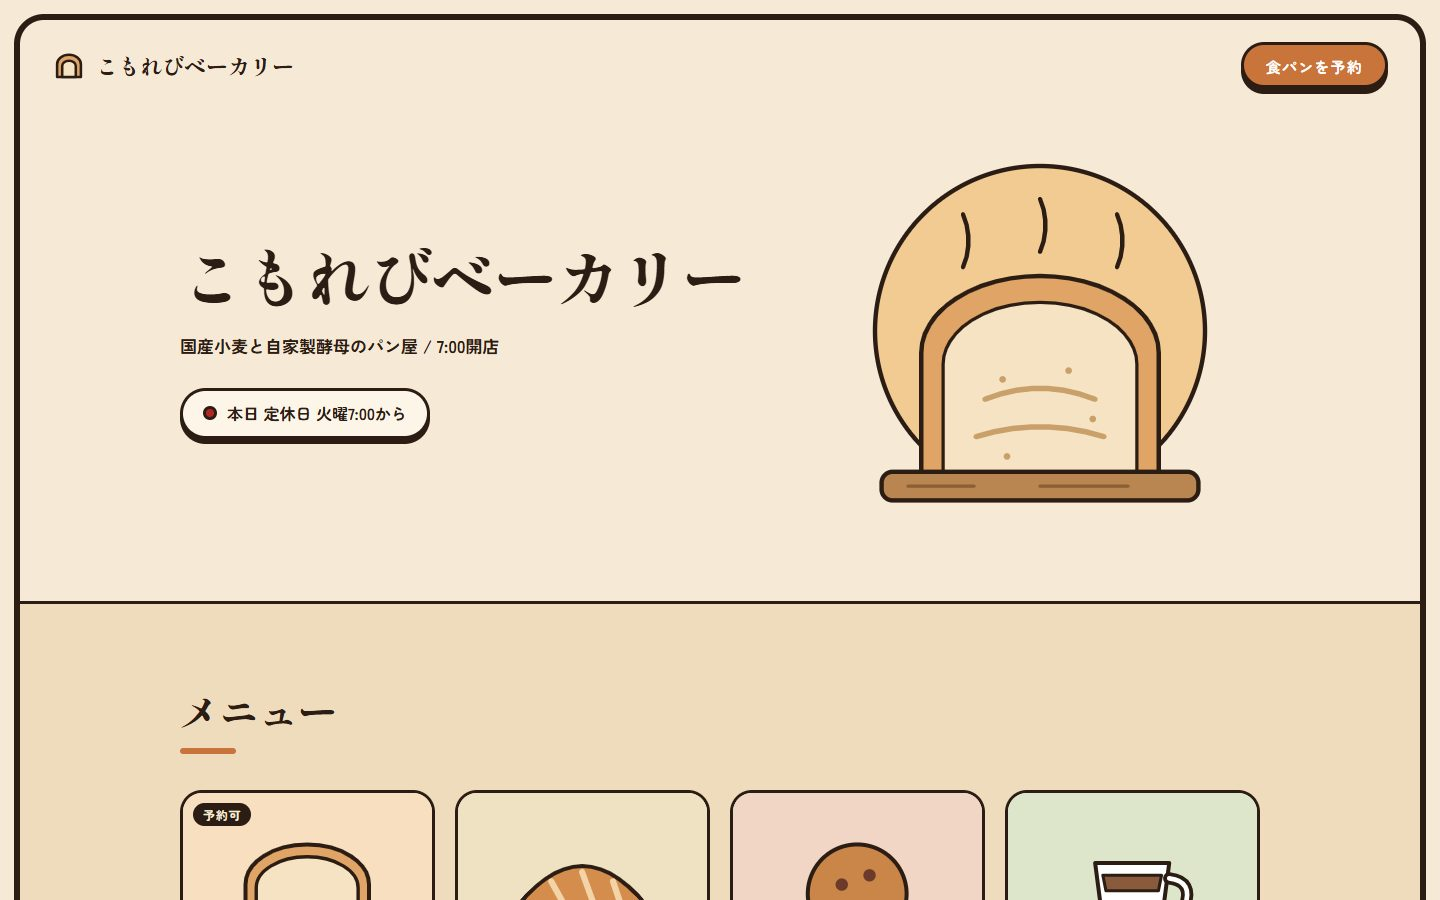
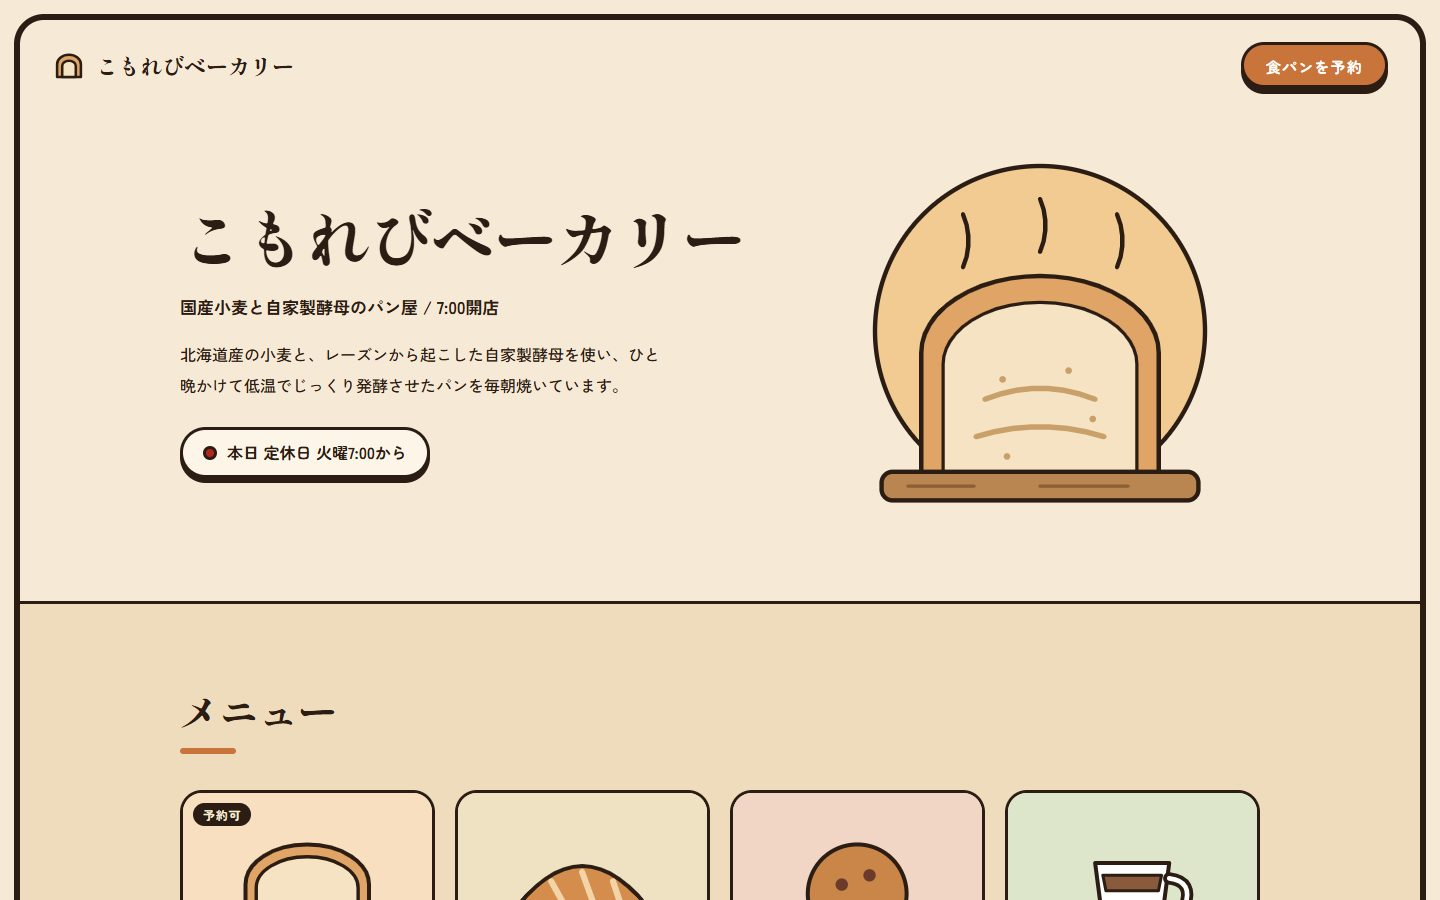
Rewrite sample copy in natural descriptive sentences

Changed region(s): [[0.125, 0.2178, 0.5312, 0.56]]

diff --git a/island/index.html b/island/index.html
@@ -35,6 +35,8 @@ svg.w path{stroke:var(--line);stroke-width:3.2;stroke-linecap:round;stroke-linej
 .t1 p{margin-top:22px;font:700 28px/1.3 "Zen Kaku Gothic New",sans-serif;letter-spacing:.12em}
 .t2{left:990px;top:420px;width:560px}
 .t2 h2{font-size:60px;line-height:1.1;letter-spacing:-.04em;margin-bottom:20px}
+.t2-lead{margin:10px 0 18px;font:700 16px/1.8 "Zen Kaku Gothic New",sans-serif}
+.portrait .t2-lead{font-size:22px}
 .facts{background:var(--paper2);border:3px solid var(--line);border-radius:18px;overflow:hidden}
 .facts li{display:grid;grid-template-columns:40px 1fr auto;align-items:center;gap:14px;padding:13px 20px;border-bottom:2px solid var(--line);font:700 21px/1.2 "Zen Kaku Gothic New",sans-serif}
 .facts li:last-child{border-bottom:0}
@@ -157,6 +159,7 @@ html.fine #cur,html.fine #ping{display:block}
     </div>
     <div class="t2" id="t2">
       <h2 id="h2">しおさい荘</h2>
+      <p class="t2-lead">瀬戸内海に浮かぶしおさい島の、1日3組限定の小さな宿です。</p>
       <ul class="facts" id="p2">
         <li><span data-ico="yen"></span><span>1泊2食</span><b>16,500円〜</b></li>
         <li><span data-ico="boat"></span><span>みどり港からフェリー</span><b>25分</b></li>
@@ -174,6 +177,7 @@ html.fine #cur,html.fine #ping{display:block}
 <section class="sec" id="rooms">
   <div class="wrap">
     <h2 class="sec-h">客室</h2>
+    <p class="sec-lead">海側の和室、広縁付きの和洋室、松林に面した離れの3室をご用意しています。全室禁煙で、<span class="nw">1日3組</span>までのご案内のため、館内では静かにお過ごしいただけます。</p>
     <table class="cmp">
       <caption class="sr">客室の比較</caption>
       <thead><tr><td></td>
@@ -184,6 +188,7 @@ html.fine #cur,html.fine #ping{display:block}
         <tr><th scope="row">広さ</th><td>8畳</td><td>12畳+縁側</td><td>10畳(離れ)</td></tr>
         <tr><th scope="row">定員</th><td>1〜2名</td><td>2〜4名</td><td>2〜3名</td></tr>
         <tr><th scope="row">眺め</th><td>海</td><td>海・夕日</td><td>庭・松</td></tr>
+        <tr><th scope="row">特徴</th><td>港と島々を一望</td><td>夕日が見える広縁</td><td>テラス付きの一棟貸し</td></tr>
         <tr><th scope="row">1泊2食/1名</th><td class="pr">16,500円〜</td><td class="pr">19,800円〜</td><td class="pr">22,000円〜</td></tr>
         <tr class="act"><th scope="row" class="sr">予約</th>
           <td><a class="pill red sm" href="reserve.html?room=nagi">この部屋で予約</a></td>
@@ -195,17 +200,17 @@ html.fine #cur,html.fine #ping{display:block}
     <div class="cmp-cards">
       <article class="rc card">
         <div class="rc-h"><span class="win" data-win="nagi"></span><h3>凪</h3></div>
-        <dl><div><dt>広さ</dt><dd>8畳</dd></div><div><dt>定員</dt><dd>1〜2名</dd></div><div><dt>眺め</dt><dd>海</dd></div><div><dt>1泊2食/1名</dt><dd class="pr">16,500円〜</dd></div></dl>
+        <dl><div><dt>広さ</dt><dd>8畳</dd></div><div><dt>定員</dt><dd>1〜2名</dd></div><div><dt>眺め</dt><dd>海</dd></div><div><dt>特徴</dt><dd>港と島々を一望</dd></div><div><dt>1泊2食/1名</dt><dd class="pr">16,500円〜</dd></div></dl>
         <a class="pill red sm" href="reserve.html?room=nagi">この部屋で予約</a>
       </article>
       <article class="rc card">
         <div class="rc-h"><span class="win" data-win="shiosai"></span><h3>潮騒</h3></div>
-        <dl><div><dt>広さ</dt><dd>12畳+縁側</dd></div><div><dt>定員</dt><dd>2〜4名</dd></div><div><dt>眺め</dt><dd>海・夕日</dd></div><div><dt>1泊2食/1名</dt><dd class="pr">19,800円〜</dd></div></dl>
+        <dl><div><dt>広さ</dt><dd>12畳+縁側</dd></div><div><dt>定員</dt><dd>2〜4名</dd></div><div><dt>眺め</dt><dd>海・夕日</dd></div><div><dt>特徴</dt><dd>夕日が見える広縁</dd></div><div><dt>1泊2食/1名</dt><dd class="pr">19,800円〜</dd></div></dl>
         <a class="pill red sm" href="reserve.html?room=shiosai">この部屋で予約</a>
       </article>
       <article class="rc card">
         <div class="rc-h"><span class="win" data-win="matsukaze"></span><h3>松風</h3></div>
-        <dl><div><dt>広さ</dt><dd>10畳(離れ)</dd></div><div><dt>定員</dt><dd>2〜3名</dd></div><div><dt>眺め</dt><dd>庭・松</dd></div><div><dt>1泊2食/1名</dt><dd class="pr">22,000円〜</dd></div></dl>
+        <dl><div><dt>広さ</dt><dd>10畳(離れ)</dd></div><div><dt>定員</dt><dd>2〜3名</dd></div><div><dt>眺め</dt><dd>庭・松</dd></div><div><dt>特徴</dt><dd>テラス付きの一棟貸し</dd></div><div><dt>1泊2食/1名</dt><dd class="pr">22,000円〜</dd></div></dl>
         <a class="pill red sm" href="reserve.html?room=matsukaze">この部屋で予約</a>
       </article>
     </div>
@@ -228,6 +233,7 @@ html.fine #cur,html.fine #ping{display:block}
 <path class="ink3" fill="none" d="M150 40l60 90M170 36l50 94"/></svg></div>
     <div>
       <h2 class="sec-h">食事</h2>
+      <p class="sec-lead">夕食は、その朝に島の漁師から仕入れた地魚を中心にした会席料理です。朝食には、宿で一夜干しにした自家製の干物と、釜で炊いたご飯をお出しします。</p>
       <dl class="times">
         <div><dt>夕食</dt><dd><span class="chip">18:00</span><span class="chip">19:00</span></dd></div>
         <div><dt>朝食</dt><dd><span class="chip">8:00</span></dd></div>
@@ -247,6 +253,7 @@ html.fine #cur,html.fine #ping{display:block}
 <section class="sec" id="access">
   <div class="wrap">
     <h2 class="sec-h">アクセス</h2>
+    <p class="sec-lead">しおさい島へは、みどり港からフェリーで約25分です。島の港までは宿の車でお迎えにあがりますので、ご乗船の便を前日までにお知らせください。</p>
     <div class="acc-top">
       <div class="acc-map"><svg viewBox="0 0 720 460" aria-label="みどり港としおさい島の位置を示す地図">
 <path fill="var(--band)" d="M0 0h720v460H0z"/>
@@ -281,7 +288,7 @@ html.fine #cur,html.fine #ping{display:block}
           <b>みどり港 発</b>
           <span class="chip">7:10</span><span class="chip">10:30</span><span class="chip">13:40</span><span class="chip fin">16:20<small>最終</small></span><span class="chip">18:30</span>
         </div>
-        <p class="legend1">最終 = チェックインに間に合う最終便</p>
+        <p class="legend1">16:20発が、チェックインに間に合う最終便です。</p>
       </div>
     </div>
   </div>

diff --git a/bakery/index.html b/bakery/index.html
@@ -67,6 +67,9 @@ h1,h2,h3{font-family:"Shippori Mincho B1",serif;font-weight:800;letter-spacing:-
 .t1{background:#f7dfc0}.t2{background:#efe2c2}.t3{background:#f1d6c6}.t4{background:#dde6cb}
 .mbody{padding:14px 16px 16px;display:flex;justify-content:space-between;align-items:baseline;gap:8px;flex-wrap:wrap}
 .mbody h3{font-size:17px}
+.mbody .desc{flex-basis:100%;margin-top:6px;font:500 13.5px/1.75 "Zen Kaku Gothic New",sans-serif;opacity:.82}
+.lead{margin-top:16px;max-width:30em;line-height:1.95}
+.sec-lead{max-width:42em;margin:-14px 0 30px;line-height:1.95}
 .mbody p{font:800 18px/1 "Shippori Mincho B1",serif;color:var(--accent-d)}
 
 /* reserve */
@@ -190,6 +193,7 @@ legend{font:800 20px/1.3 "Shippori Mincho B1",serif;margin-bottom:14px;padding:0
       <div>
         <h1>こもれびベーカリー</h1>
         <p class="fact">国産小麦と自家製酵母のパン屋 / 7:00開店</p>
+        <p class="lead">北海道産の小麦と、レーズンから起こした自家製酵母を使い、ひと晩かけて低温でじっくり発酵させたパンを毎朝焼いています。</p>
         <p class="status" id="status" role="status" data-s="closed"><i aria-hidden="true"></i><span>本日 <b id="statusText">7:00-17:00</b></span></p>
       </div>
       <svg class="hero-art" viewBox="0 0 400 350" aria-hidden="true">
@@ -212,22 +216,22 @@ legend{font:800 20px/1.3 "Shippori Mincho B1",serif;margin-bottom:14px;padding:0
         <li class="mcard">
           <div class="mthumb t1"><em>予約可</em>
             <svg viewBox="0 0 100 80" aria-hidden="true"><path d="M10 72V36a40 26 0 0 1 80 0V72Z" fill="#e0a466" stroke="#2b1d14" stroke-width="2.6" stroke-linejoin="round"/><path d="M17 72V38a33 20 0 0 1 66 0V72Z" fill="#f6e3c4" stroke="#2b1d14" stroke-width="2.2" stroke-linejoin="round"/></svg></div>
-          <div class="mbody"><h3>こもれび食パン</h3><p>480円</p></div>
+          <div class="mbody"><h3>こもれび食パン</h3><p>480円</p><span class="desc">しっとりとした口どけの看板商品です。トーストすると耳の香ばしさが引き立ちます。</span></div>
         </li>
         <li class="mcard">
           <div class="mthumb t2">
             <svg viewBox="0 0 100 80" aria-hidden="true"><path d="M8 50q42-52 84 0q-42 30-84 0Z" fill="#d48d4c" stroke="#2b1d14" stroke-width="2.6" stroke-linejoin="round"/><path d="M30 34l10 18M50 28l8 22M70 34l6 18" stroke="#f3d3a8" stroke-width="4" stroke-linecap="round"/></svg></div>
-          <div class="mbody"><h3>クロワッサン</h3><p>260円</p></div>
+          <div class="mbody"><h3>クロワッサン</h3><p>260円</p><span class="desc">発酵バターを折り込み、外はさっくり、中はしっとりと焼き上げています。</span></div>
         </li>
         <li class="mcard">
           <div class="mthumb t3">
             <svg viewBox="0 0 100 80" aria-hidden="true"><circle cx="50" cy="42" r="32" fill="#c98648" stroke="#2b1d14" stroke-width="2.6"/><circle cx="40" cy="36" r="4" fill="#6b3a2a"/><circle cx="58" cy="30" r="4" fill="#6b3a2a"/><circle cx="56" cy="52" r="4" fill="#6b3a2a"/><circle cx="38" cy="54" r="4" fill="#6b3a2a"/></svg></div>
-          <div class="mbody"><h3>いちじくとくるみ</h3><p>340円</p></div>
+          <div class="mbody"><h3>いちじくとくるみ</h3><p>340円</p><span class="desc">ライ麦入りの生地に、白ワインに漬けたいちじくとローストしたくるみを合わせました。</span></div>
         </li>
         <li class="mcard">
           <div class="mthumb t4">
             <svg viewBox="0 0 100 80" aria-hidden="true"><path d="M26 22h48l-6 46H32Z" fill="#fff" stroke="#2b1d14" stroke-width="2.6" stroke-linejoin="round"/><path d="M74 32q16 2 10 18q-4 8-14 6" fill="none" stroke="#2b1d14" stroke-width="8" stroke-linecap="round"/><path d="M74 32q16 2 10 18q-4 8-14 6" fill="none" stroke="#fff" stroke-width="3" stroke-linecap="round"/><path d="M31 30h38l-2 10H33Z" fill="#8a5a3c" stroke="#2b1d14" stroke-width="2" stroke-linejoin="round"/></svg></div>
-          <div class="mbody"><h3>ブレンドコーヒー</h3><p>400円</p></div>
+          <div class="mbody"><h3>ブレンドコーヒー</h3><p>400円</p><span class="desc">近くの焙煎所に依頼した中深煎りのブレンドです。パンと一緒のご注文で50円引きになります。</span></div>
         </li>
       </ul>
     </div>
@@ -236,6 +240,7 @@ legend{font:800 20px/1.3 "Shippori Mincho B1",serif;margin-bottom:14px;padding:0
   <section class="sec" id="reserve">
     <div class="wrap">
       <h2>食パンの予約</h2>
+      <p class="sec-lead">看板の食パンは焼き上がりの数に限りがあるため、前日18時までのご予約をおすすめしています。ご予約分は受け取り時間に合わせて焼き上げ、店頭でお渡しします。</p>
       <div class="rcard" id="rcard">
         <div class="form-wrap" id="formWrap" style="display:contents">
           <form id="rform" style="display:contents" novalidate>

diff --git a/island/rooms.html b/island/rooms.html
@@ -30,7 +30,7 @@
     <div class="rm-art" data-win="nagi"></div>
     <div>
       <h2>凪<small>なぎ</small></h2>
-      <p class="one">海側の和室。窓から漁船が見える。</p>
+      <p class="one">瀬戸内海に面した、落ち着いた8畳の和室です。窓からは港を出入りする漁船と沖の島々を一望でき、おひとり旅やおふたりでの滞在におすすめです。</p>
       <table class="spec">
         <tr><th scope="row">広さ</th><td>8畳</td></tr>
         <tr><th scope="row">定員</th><td>1〜2名</td></tr>
@@ -52,7 +52,7 @@
     <div class="rm-art" data-win="shiosai"></div>
     <div>
       <h2>潮騒<small>しおさい</small></h2>
-      <p class="one">海側の和洋室。縁側から夕日が見える。</p>
+      <p class="one">海を望む広縁を備えた、当館でいちばん広い和洋室です。ベッド2台と布団2組をご用意でき、ご家族やグループでもゆったりとお過ごしいただけます。晴れた日の夕方には、広縁から海に沈む夕日をご覧いただけます。</p>
       <table class="spec">
         <tr><th scope="row">広さ</th><td>12畳+縁側</td></tr>
         <tr><th scope="row">定員</th><td>2〜4名</td></tr>
@@ -75,7 +75,7 @@
     <div class="rm-art" data-win="matsukaze"></div>
     <div>
       <h2>松風<small>まつかぜ</small></h2>
-      <p class="one">庭側の離れ。一棟貸し。</p>
+      <p class="one">母屋から少し離れた、松林の中に建つ一棟貸しの離れです。専用のテラスとデスクを備え、ほかのお客さまと顔を合わせずに過ごせるため、記念日の旅や長めの滞在にもご利用いただいています。</p>
       <table class="spec">
         <tr><th scope="row">広さ</th><td>10畳(離れ)</td></tr>
         <tr><th scope="row">定員</th><td>2〜3名</td></tr>
@@ -96,6 +96,7 @@
 
   <section class="rm-sec">
     <h2>共用設備</h2>
+    <p class="sec-lead">檜の貸切風呂は、空いていればいつでも鍵をかけてお使いいただけます。自転車と釣り道具は無料でお貸ししています。</p>
     <ul class="fac card">
       <li><span data-ico="bath"></span>貸切風呂</li>
       <li><span data-ico="wifi"></span>Wi-Fi</li>

diff --git a/island/site.css b/island/site.css
@@ -65,6 +65,7 @@ h1,h2,h3{font-family:"Shippori Mincho B1",serif;font-weight:800;letter-spacing:-
 .more a{display:inline-flex;align-items:center;min-height:44px;font-weight:700;text-underline-offset:5px}
 
 /* 食事 */
+.sec-lead{max-width:42em;margin:0 0 30px;line-height:1.95;font-weight:500;color:var(--muted)}
 .meal{display:grid;grid-template-columns:1fr 1fr;gap:48px;align-items:center}
 .meal-art{background:var(--band);border:3px solid var(--line);border-radius:24px;padding:24px}
 .times{border:3px solid var(--line);border-radius:18px;background:var(--paper2);overflow:hidden}
@@ -335,3 +336,4 @@ h1,h2,h3{font-family:"Shippori Mincho B1",serif;font-weight:800;letter-spacing:-
   .code{font-size:30px}
   .dn3{padding:28px 16px 26px}
 }
+.nw{white-space:nowrap}
